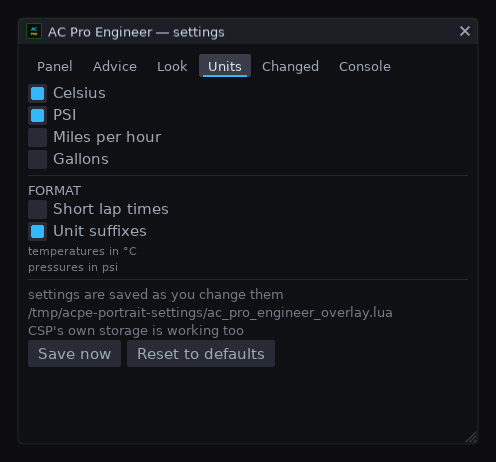
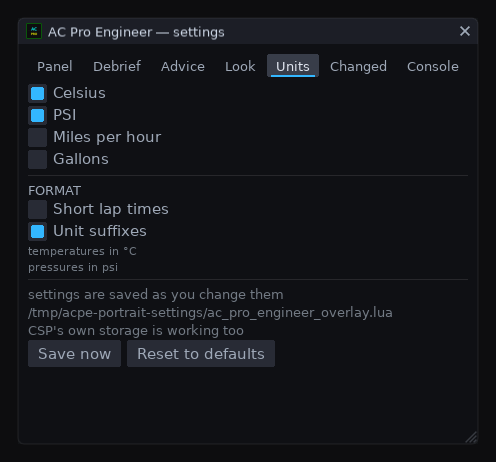
chore(screenshots): portraits.sh draws the debrief and its settings tab
Both pictures were made by hand, so the next person to regenerate the
screenshots would have refreshed every other window and left these two at
whatever they happened to be — which is the failure mode the script exists to
remove.

README gains the Debrief settings tab alongside the others.

Changed region(s): [[0.1815, 0.0909, 0.7863, 0.1818], [0.8165, 0.1212, 0.9375, 0.1515]]

diff --git a/README.md b/README.md
@@ -461,6 +461,20 @@ warnings only or critical only. Then wrapping, highlighting, spacing, a rule
 between lines, a count of what was hidden, and a plate behind the text for
 reading a sentence against a bright sky.
 
+### In-game settings — Debrief
+
+![Overlay settings, Debrief tab: how many lines, sectors, what is left, and the wheel bindings](screenshots/Overlay_Settings_Debrief.png)
+
+How much the lap debrief says and how you move through it. Lines to draw — zero
+switches it off and the application stops publishing one at all — the lap time,
+the comparison with the lap before, sector times, what is left of the tyres and
+fuel, and whether a finished lap pulls the window back to it.
+
+Underneath: the wheel bindings. They are sections in Assetto Corsa's own
+`controls.ini`, so a wheel button, a gamepad or a key all work and the panel
+never learns which it was. Nothing is bound by default — a default that is free
+on one wheel steals the pit limiter on another.
+
 ### In-game settings — Look
 
 ![Overlay settings, Look tab: accent colour and an editable palette for the in-game panel](screenshots/Overlay_Settings_Look.png)
